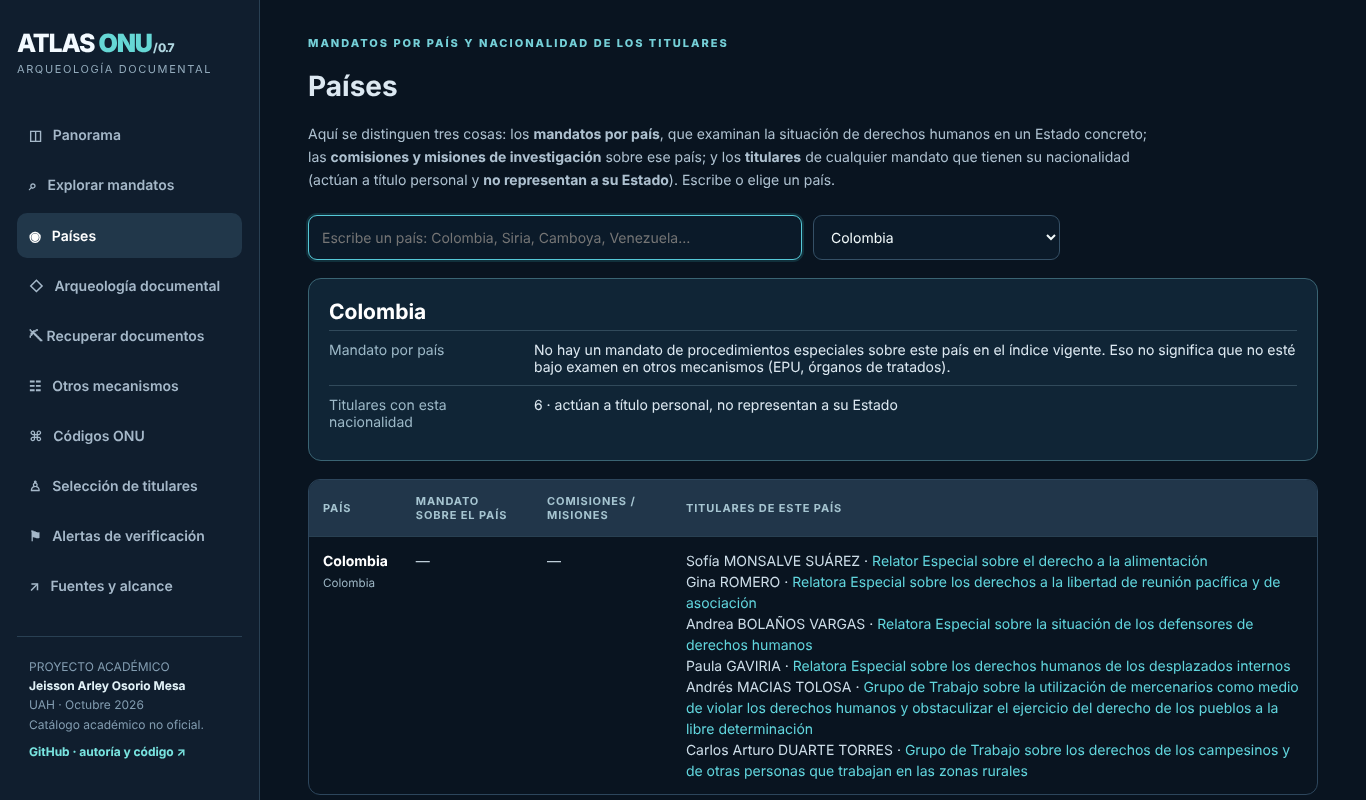
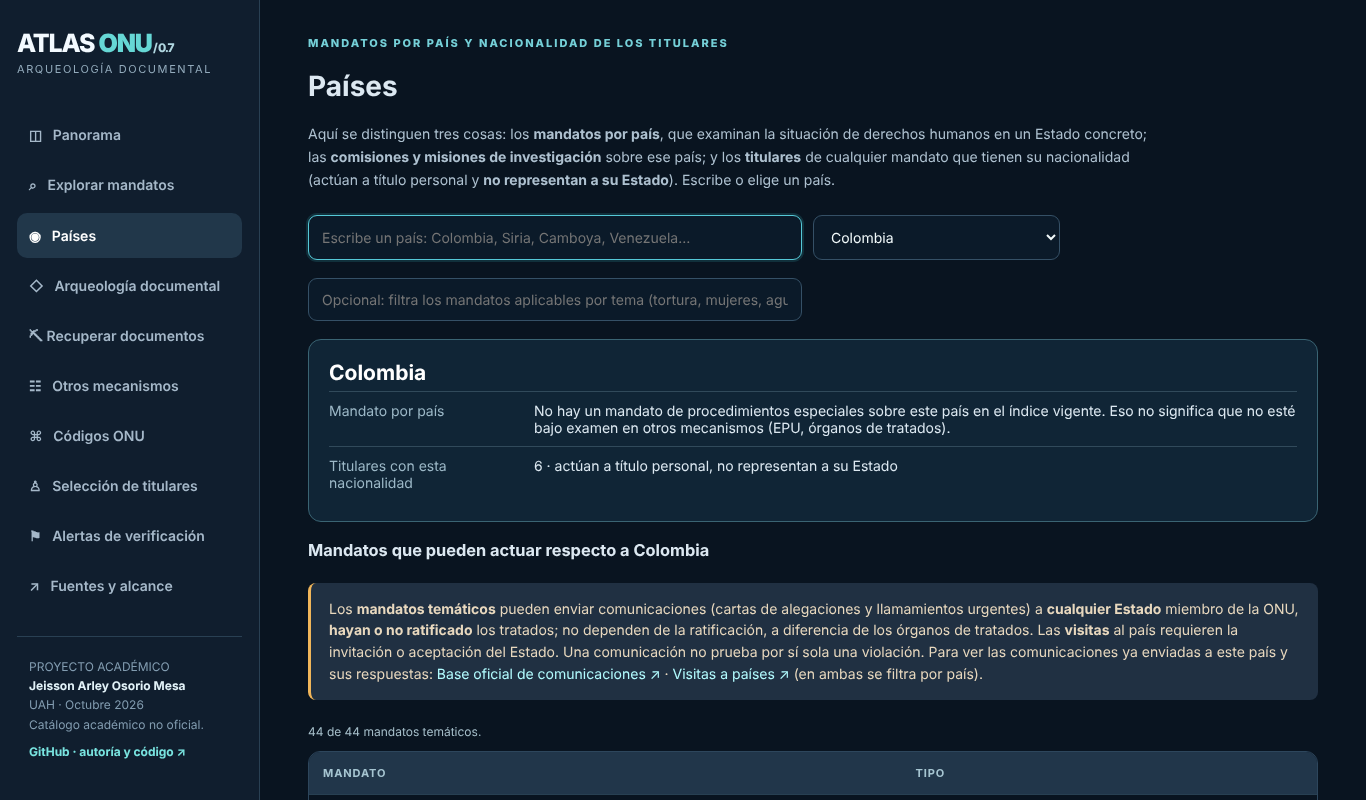
Países: al elegir un país se muestran los mandatos temáticos que pueden dirigirle comunicaciones
- Los 44 mandatos temáticos pueden comunicarse con cualquier Estado (no depende de la ratificación); filtro por tema y el mandato propio del país primero
- Enlaces a la base oficial de comunicaciones y de visitas
- Búsqueda guiada de la portada con país opcional
- Pruebas: 55 de lógica y 58 en Chromium

Changed region(s): [[0.2152, 0.5, 0.9839, 1.0], [0.2152, 0.375, 0.9531, 0.5312]]

diff --git a/index.html b/index.html
@@ -1,9 +1,9 @@
 <!DOCTYPE html><html lang="es"><head><meta charset="UTF-8"><meta name="viewport" content="width=device-width,initial-scale=1"><title>Atlas ONU · Arqueología documental</title>
 <style>
 :root{font-family:Inter,system-ui,-apple-system,'Segoe UI',sans-serif;color:#dce8f1;background:#091420;font-size:14px}*{box-sizing:border-box}body{margin:0}button,input,select{font:inherit}a{color:#61d5dd;text-decoration:none}a:hover{text-decoration:underline}button{cursor:pointer}.layout{display:grid;grid-template-columns:260px minmax(0,1fr);min-height:100vh}.side{background:#101e2e;border-right:1px solid #294053;padding:28px 17px;position:sticky;top:0;height:100vh;overflow:auto}.brand{font-size:25px;letter-spacing:-1.2px;font-weight:800;color:#f3faff}.brand b{color:#66d7d5}.subbrand{font-size:11px;color:#93abbc;letter-spacing:1.6px;margin:4px 0 36px}.nav button{border:0;background:transparent;color:#a5b8c9;display:flex;align-items:center;gap:12px;text-align:left;padding:14px 12px;border-radius:10px;width:100%;margin-bottom:5px;font-weight:600}.nav button.active,.nav button:hover{background:#21374a;color:white}.sidefooter{font-size:12px;line-height:1.6;color:#829cb0;padding:20px 12px;border-top:1px solid #294053;margin-top:28px}.main{min-width:0;padding:36px 48px 70px;max-width:1690px;width:100%;margin:auto}.eyebrow{text-transform:uppercase;letter-spacing:2px;font-size:11px;color:#75d0d8;font-weight:800}.heading{display:flex;justify-content:space-between;align-items:start;gap:20px}.heading h1{font-size:35px;margin:7px 0 10px;letter-spacing:-1.3px;color:white}.intro{max-width:850px;color:#aec1d0;line-height:1.65;margin:0 0 24px}.pill{display:inline-block;border:1px solid #365468;padding:7px 11px;color:#b7cbd8;border-radius:100px;font-size:11px}.notice{padding:15px 18px;background:#203042;border-left:3px solid #f1b65a;border-radius:8px;color:#e8d8be;line-height:1.55;margin:23px 0 24px}.cards{display:grid;grid-template-columns:repeat(4,minmax(0,1fr));gap:16px;margin:23px 0}.metric{background:#152639;border:1px solid #2b4154;border-radius:15px;padding:19px}.metric small{font-size:11px;text-transform:uppercase;letter-spacing:.8px;color:#8ca9ba}.metric strong{display:block;font-size:30px;color:white;margin-top:7px;letter-spacing:-1px}.metric .hint{font-size:11px;color:#86a6b8;margin-top:7px}.panels{display:grid;grid-template-columns:1.05fr .95fr;gap:18px;margin:19px 0}.panel{background:#132437;border:1px solid #294054;border-radius:15px;padding:23px;min-width:0}.panel h3{margin:0 0 18px;color:#eff8fd;font-size:16px}.controls{display:grid;grid-template-columns:2fr 1fr 1fr;gap:11px;margin:18px 0}.controls.advanced{grid-template-columns:1.1fr 1fr 1fr 1fr}.field{width:100%;background:#0b1a29;border:1px solid #355066;color:#f1f9fa;border-radius:9px;padding:12px 13px;outline:none;min-height:43px}.field:focus{border-color:#55c8d7;box-shadow:0 0 0 2px #287f8844}.searchlabel{font-size:12px;color:#9db9c8;margin-bottom:7px;display:block}.toolbar{display:flex;flex-wrap:wrap;gap:10px;margin:17px 0}.btn{background:#1d4252;border:1px solid #356875;border-radius:9px;color:#e7faff;padding:10px 15px;font-weight:650}.btn.primary{background:#52c8ca;color:#0a2630;border:0}.btn:hover{filter:brightness(1.15)}.count{color:#a6bfca;font-size:12px;margin-top:14px}.tablewrap{overflow:auto;border-radius:12px;border:1px solid #2d465c}table{width:100%;border-collapse:collapse;text-align:left;min-width:770px}th{font-size:11px;letter-spacing:.9px;color:#a6c5d1;background:#21364a;text-transform:uppercase;padding:14px}td{border-top:1px solid #284052;padding:13px 14px;vertical-align:top;color:#cddde8;line-height:1.5}tr:hover td{background:#1b3043}.name{color:white;font-weight:650}.tag{font-size:11px;padding:4px 8px;border-radius:6px;background:#2e4960;color:#e7f4f5;display:inline-block;white-space:nowrap}.tag.high{background:#5c3932;color:#ffc5ad}.tag.warn{background:#4e452b;color:#ffdda1}.linkline{display:flex;gap:10px;flex-wrap:wrap}.linkline a{display:inline-block;border:1px solid #356073;border-radius:7px;padding:6px 9px;font-size:11px}.empty{padding:28px;color:#abc0cc}.bars{display:flex;align-items:end;justify-content:space-evenly;height:190px;gap:14px;border-bottom:1px solid #436174}.barwrap{display:flex;flex:1;height:100%;align-items:end;justify-content:center;gap:5px;flex-direction:column;text-align:center}.bararea{display:flex;align-items:end;justify-content:center;height:150px;width:100%}.bar{background:linear-gradient(180deg,#65d7d0,#227f9c);width:40%;min-width:20px;border-radius:6px 6px 0 0}.barwrap label{font-size:11px;color:#b7c5d2;margin:7px 0}.barwrap strong{font-size:12px;color:#eaffff}.listline{border-bottom:1px solid #2b4054;padding:12px 0}.listline:last-child{border:0}.listline strong{color:#ecf7f8}.listline p{font-size:12px;color:#91adbc;margin:6px 0 0;line-height:1.5}.section{display:none}.section.visible{display:block}.detail{background:#102536;border:1px solid #3a6473;border-radius:13px;padding:20px;margin:18px 0}.detail h2{color:#fff;margin:0 0 6px}.detail .meta{color:#90b1c1;margin-bottom:17px}.kv{display:grid;grid-template-columns:190px 1fr;border-top:1px solid #314a5b;padding:10px 0;gap:15px}.kv span:first-child{color:#9cb8c7}.timeline{border-left:2px solid #387f8f;margin:18px 10px;padding-left:20px}.event{padding:2px 0 19px;position:relative}.event:before{content:"";width:10px;height:10px;border-radius:50%;background:#6bd6d3;position:absolute;left:-26px;top:6px}.event .year{color:#64ced5;font-weight:800}.event .desc{color:#b7c9d5;margin:5px 0;font-size:12px;line-height:1.5}.foot{border-top:1px solid #264054;margin-top:44px;padding-top:15px;color:#789aac;font-size:12px;line-height:1.6}@media(max-width:1080px){.layout{grid-template-columns:1fr}.side{position:static;height:auto}.nav{display:flex;flex-wrap:wrap}.nav button{width:auto}.main{padding:25px}.cards{grid-template-columns:repeat(2,1fr)}.panels{grid-template-columns:1fr}}@media(max-width:650px){.cards{grid-template-columns:1fr 1fr}.controls,.controls.advanced{grid-template-columns:1fr}.heading h1{font-size:26px}.main{padding:18px}.side{padding:15px}}@media print{.side,.toolbar,.controls{display:none}.layout{display:block}.section{display:block}.main{padding:0;color:black}.panel,.metric{break-inside:avoid}}
-.sidefooter a{display:inline-block;margin-top:8px;color:#79e4e0;font-weight:700}.notice a{color:#b2fcff}.field[type=number]{appearance:textfield}@media(max-width:650px){.pill{display:none}} .st-ok{background:#12372c;color:#7ff0c3}.st-ok2{background:#133a45;color:#8be3f0}.st-bad{background:#4a1d27;color:#ffb3c0}.st-neu{background:#26333d;color:#c8d6df}.st-warn{background:#4a3a14;color:#ffd98a}td small{color:#9db6c4}td code{word-break:break-all}</style></head><body><div class="layout"><aside class="side"><div class="brand">ATLAS <b>ONU</b><span style="color:#b0d6e0;font-size:12px"> / 0.7</span></div><div class="subbrand">ARQUEOLOGÍA DOCUMENTAL</div><div class="nav" id="nav"><button class="active" data-page="inicio">◫ &nbsp; Panorama</button><button data-page="explorar">⌕ &nbsp; Explorar mandatos</button><button data-page="paises">◉ &nbsp; Países</button><button data-page="arqueologia">◇ &nbsp; Arqueología documental</button><button type="button" data-page="recuperar">⛏ Recuperar documentos</button><button data-page="mecanismos">☷ &nbsp; Otros mecanismos</button><button data-page="codificacion">⌘ &nbsp; Códigos ONU</button><button data-page="seleccion">♙ &nbsp; Selección de titulares</button><button data-page="auditoria">⚑ &nbsp; Alertas de verificación</button><button data-page="fuentes">↗ &nbsp; Fuentes y alcance</button></div><div class="sidefooter">PROYECTO ACADÉMICO<br><strong style="color:#e2f2f8">Sukima-Labs</strong><br>UAH · Octubre 2026<br>Catálogo académico no oficial.<br><a href="https://github.com/sukima-labs/onu-arqueologia-documental" target="_blank" rel="noopener noreferrer">GitHub · autoría y código ↗</a></div></aside><main class="main"><section id="inicio" class="section visible"><div class="heading"><div><div class="eyebrow">Sistema universal de derechos humanos</div><h1>Explora el ecosistema ONU</h1></div><span class="pill">Versión 0.7 · datos del 27.10.2026</span></div><p class="intro">Un punto de entrada para encontrar mandatos, distinguir resoluciones de informes y reconstruir la historia documental de los procedimientos especiales. Busca en lenguaje natural; no necesitas conocer de antemano los símbolos de Naciones Unidas.</p><div class="notice"><b>Alcance:</b> los 57 mandatos vigentes de procedimientos especiales (índice OHCHR) con cada acto jurídico contrastado en la Biblioteca Digital ONU, más 25 mecanismos conexos (órganos de tratados, EPU, comisiones de investigación). <b>No incluye aún</b> mandatos extinguidos ni mapas. Los datos son una instantánea y se regeneran con <code>scripts/actualizar_datos.sh</code>; no se consultan en vivo.</div><div class="panel" id="guiada"><h3>Búsqueda guiada · si no conoces la ONU</h3><p>Elige la situación que te interesa y te llevamos a los mandatos que pueden ayudar.</p><div class="controls"><select id="guiadaSel" class="field" aria-label="Situación"><option value="">¿Qué situación te interesa?</option><option value="tortura|detencion|torture|detention">Tortura, malos tratos o detención arbitraria</option><option value="desaparici|ejecucion|execution|disappear">Desapariciones forzadas o ejecuciones</option><option value="mujer|violencia contra|women|ninos|child|discapacidad|disabilit">Mujeres, niñez o personas con discapacidad</option><option value="agua|alimentacion|vivienda|salud|educacion|pobreza|water|food|housing|health|education|poverty">Agua, alimentación, vivienda, salud, educación o pobreza</option><option value="indigena|minoria|afrodescend|migrant|racis|desplazad|indigenous|minorit|african descent">Pueblos indígenas, minorías, afrodescendientes o migrantes</option><option value="expresion|reunion|defensor|religion|privacidad|expression|assembly|defender|privacy">Libertad de expresión, reunión, religión, defensores</option><option value="medio ambiente|clima|environment|climate|desarrollo|development|deuda|debt">Medio ambiente, clima, desarrollo o deuda</option><option value="situacion de los derechos humanos en|situation of human rights in">Un país concreto (mandatos por país)</option></select><button class="btn primary" onclick="guiada()">Ver mandatos</button></div><p class="count">Si lo que buscas es un <b>documento</b> (por ejemplo una resolución antigua), ve a <a href="#" onclick="showPage('recuperar');return false">Recuperar documentos</a>. Si buscas el comité al que acudir por un tratado, ve a <a href="#" onclick="showPage('mecanismos');return false">Otros mecanismos</a>.</p></div><div class="cards" id="kpis"></div><div class="panel"><h3>Estado de actualización y calidad documental</h3><div id="calidad"></div></div><div class="panels"><div class="panel"><h3>Mandatos por modalidad</h3><div id="chartKinds" class="bars"></div></div><div class="panel"><h3>¿Cómo empiezo?</h3><div class="listline"><strong>01 · Escribe un tema</strong><p>Prueba «tortura», «desapariciones», «agua», «mercenarios» o un símbolo documental.</p></div><div class="listline"><strong>02 · Comprueba el acto</strong><p>Confirma si estás ante una resolución adoptada, un informe que reproduce un acto o un proyecto.</p></div><div class="listline"><strong>03 · Reconstruye el mandato</strong><p>Contrasta creación, renovaciones y métodos de trabajo con la Biblioteca Digital de Naciones Unidas.</p></div></div></div><div class="panel"><h3>Búsqueda inteligente</h3><div class="controls"><input id="quick" class="field" placeholder="Escribe como hablas: niños migrantes, desaparecidos, comida, A/HRC/RES/54/26…" aria-label="Búsqueda inteligente" autocomplete="off"><button class="btn primary" onclick="quickSearch()">Buscar</button><button class="btn" onclick="showPage('arqueologia')">Ver arqueología</button></div><p class="count">Entiende sinónimos en español e inglés («desaparecidos», «comida», «niños»), corrige erratas y busca a la vez en mandatos, resoluciones y mecanismos. Los resultados aparecen mientras escribes.</p><div id="smartOut" aria-live="polite"></div></div></section>
+.sidefooter a{display:inline-block;margin-top:8px;color:#79e4e0;font-weight:700}.notice a{color:#b2fcff}.field[type=number]{appearance:textfield}@media(max-width:650px){.pill{display:none}} .st-ok{background:#12372c;color:#7ff0c3}.st-ok2{background:#133a45;color:#8be3f0}.st-bad{background:#4a1d27;color:#ffb3c0}.st-neu{background:#26333d;color:#c8d6df}.st-warn{background:#4a3a14;color:#ffd98a}td small{color:#9db6c4}td code{word-break:break-all}</style></head><body><div class="layout"><aside class="side"><div class="brand">ATLAS <b>ONU</b><span style="color:#b0d6e0;font-size:12px"> / 0.7</span></div><div class="subbrand">ARQUEOLOGÍA DOCUMENTAL</div><div class="nav" id="nav"><button class="active" data-page="inicio">◫ &nbsp; Panorama</button><button data-page="explorar">⌕ &nbsp; Explorar mandatos</button><button data-page="paises">◉ &nbsp; Países</button><button data-page="arqueologia">◇ &nbsp; Arqueología documental</button><button type="button" data-page="recuperar">⛏ Recuperar documentos</button><button data-page="mecanismos">☷ &nbsp; Otros mecanismos</button><button data-page="codificacion">⌘ &nbsp; Códigos ONU</button><button data-page="seleccion">♙ &nbsp; Selección de titulares</button><button data-page="auditoria">⚑ &nbsp; Alertas de verificación</button><button data-page="fuentes">↗ &nbsp; Fuentes y alcance</button></div><div class="sidefooter">PROYECTO ACADÉMICO<br><strong style="color:#e2f2f8">Sukima-Labs</strong><br>UAH · Octubre 2026<br>Catálogo académico no oficial.<br><a href="https://github.com/sukima-labs/onu-arqueologia-documental" target="_blank" rel="noopener noreferrer">GitHub · autoría y código ↗</a></div></aside><main class="main"><section id="inicio" class="section visible"><div class="heading"><div><div class="eyebrow">Sistema universal de derechos humanos</div><h1>Explora el ecosistema ONU</h1></div><span class="pill">Versión 0.7 · datos del 27.10.2026</span></div><p class="intro">Un punto de entrada para encontrar mandatos, distinguir resoluciones de informes y reconstruir la historia documental de los procedimientos especiales. Busca en lenguaje natural; no necesitas conocer de antemano los símbolos de Naciones Unidas.</p><div class="notice"><b>Alcance:</b> los 57 mandatos vigentes de procedimientos especiales (índice OHCHR) con cada acto jurídico contrastado en la Biblioteca Digital ONU, más 25 mecanismos conexos (órganos de tratados, EPU, comisiones de investigación). <b>No incluye aún</b> mandatos extinguidos ni mapas. Los datos son una instantánea y se regeneran con <code>scripts/actualizar_datos.sh</code>; no se consultan en vivo.</div><div class="panel" id="guiada"><h3>Búsqueda guiada · si no conoces la ONU</h3><p>Elige la situación que te interesa y te llevamos a los mandatos que pueden ayudar.</p><div class="controls"><select id="guiadaSel" class="field" aria-label="Situación"><option value="">¿Qué situación te interesa?</option><option value="tortura|detencion|torture|detention">Tortura, malos tratos o detención arbitraria</option><option value="desaparici|ejecucion|execution|disappear">Desapariciones forzadas o ejecuciones</option><option value="mujer|violencia contra|women|ninos|child|discapacidad|disabilit">Mujeres, niñez o personas con discapacidad</option><option value="agua|alimentacion|vivienda|salud|educacion|pobreza|water|food|housing|health|education|poverty">Agua, alimentación, vivienda, salud, educación o pobreza</option><option value="indigena|minoria|afrodescend|migrant|racis|desplazad|indigenous|minorit|african descent">Pueblos indígenas, minorías, afrodescendientes o migrantes</option><option value="expresion|reunion|defensor|religion|privacidad|expression|assembly|defender|privacy">Libertad de expresión, reunión, religión, defensores</option><option value="medio ambiente|clima|environment|climate|desarrollo|development|deuda|debt">Medio ambiente, clima, desarrollo o deuda</option><option value="situacion de los derechos humanos en|situation of human rights in">Un país concreto (mandatos por país)</option></select><select id="guiadaPais" class="field" aria-label="País (opcional)"><option value="">País (opcional)</option></select><button class="btn primary" onclick="guiada()">Ver mandatos</button></div><p class="count">Si lo que buscas es un <b>documento</b> (por ejemplo una resolución antigua), ve a <a href="#" onclick="showPage('recuperar');return false">Recuperar documentos</a>. Si buscas el comité al que acudir por un tratado, ve a <a href="#" onclick="showPage('mecanismos');return false">Otros mecanismos</a>.</p></div><div class="cards" id="kpis"></div><div class="panel"><h3>Estado de actualización y calidad documental</h3><div id="calidad"></div></div><div class="panels"><div class="panel"><h3>Mandatos por modalidad</h3><div id="chartKinds" class="bars"></div></div><div class="panel"><h3>¿Cómo empiezo?</h3><div class="listline"><strong>01 · Escribe un tema</strong><p>Prueba «tortura», «desapariciones», «agua», «mercenarios» o un símbolo documental.</p></div><div class="listline"><strong>02 · Comprueba el acto</strong><p>Confirma si estás ante una resolución adoptada, un informe que reproduce un acto o un proyecto.</p></div><div class="listline"><strong>03 · Reconstruye el mandato</strong><p>Contrasta creación, renovaciones y métodos de trabajo con la Biblioteca Digital de Naciones Unidas.</p></div></div></div><div class="panel"><h3>Búsqueda inteligente</h3><div class="controls"><input id="quick" class="field" placeholder="Escribe como hablas: niños migrantes, desaparecidos, comida, A/HRC/RES/54/26…" aria-label="Búsqueda inteligente" autocomplete="off"><button class="btn primary" onclick="quickSearch()">Buscar</button><button class="btn" onclick="showPage('arqueologia')">Ver arqueología</button></div><p class="count">Entiende sinónimos en español e inglés («desaparecidos», «comida», «niños»), corrige erratas y busca a la vez en mandatos, resoluciones y mecanismos. Los resultados aparecen mientras escribes.</p><div id="smartOut" aria-live="polite"></div></div></section>
 <section id="explorar" class="section"><div class="eyebrow">Buscador académico · 57 mandatos vigentes del índice oficial OHCHR</div><h1>Explorador de mandatos</h1><p class="intro">Busca términos comunes, sinónimos, nombres en inglés o símbolos ONU. Usa los filtros para acotar el resultado; las fichas distinguen actos creador, renovaciones, métodos y advertencias de cotejo.</p><div class="panel" id="ruta-inicio"><h3>Cómo investigar sin conocer las siglas</h3><p>1. Busca un tema en lenguaje común. 2. Abre una ficha del mandato. 3. Comprueba el acto creador y su órgano. 4. Si llegas a un informe o enlace roto, entra a <a href="#" onclick="showPage('recuperar');return false">Recuperar documentos</a> y sigue la ruta hasta el texto primario. 5. Cita solo documentos cotejados.</p><div class="notice"><b>Instantánea, no feed en vivo:</b> los mandatos vigentes (44 temáticos y 13 por país) proceden del índice oficial de OHCHR consultado el 27-10-2026 y cada acto se contrasta con la Biblioteca Digital ONU. No incluye mandatos ya extinguidos ni órganos de tratados. <a href="https://www.ohchr.org/es/special-procedures-human-rights-council" target="_blank" rel="noopener noreferrer">Consultar índice oficial vigente ↗</a> · <a href="https://digitallibrary.un.org/" target="_blank" rel="noopener noreferrer">Biblioteca Digital ONU ↗</a>.</div></div><div class="controls advanced"><div><label class="searchlabel">Palabra o código</label><input id="q" class="field" placeholder="Ej. tortura o A/HRC/RES"></div><div><label class="searchlabel">Modalidad</label><select id="modal" class="field"><option value="">Todas</option><option>Temático</option><option>País</option></select></div><div><label class="searchlabel">Figura</label><select id="figura" class="field"><option value="">Todas</option><option>Relator</option><option>Experto</option><option>Grupo</option></select></div><div><label class="searchlabel">Origen institucional</label><select id="origin" class="field"><option value="">Todos</option><option>Comisión</option><option>Consejo</option><option>ECOSOC</option></select></div></div><div class="controls advanced"><div><label class="searchlabel" for="yearfrom">Desde el año</label><input id="yearfrom" type="number" class="field" min="1945" max="2100" placeholder="Ej. 1980"></div><div><label class="searchlabel" for="yearto">Hasta el año</label><input id="yearto" type="number" class="field" min="1945" max="2100" placeholder="Ej. 2006"></div><div><label class="searchlabel" for="order">Orden de resultados</label><select id="order" class="field"><option value="name">Tema A–Z</option><option value="oldest">Más antiguo primero</option><option value="newest">Más reciente primero</option></select></div><div><label class="searchlabel" for="pais">País (mandato o nacionalidad del titular)</label><select id="pais" class="field"><option value="">Todos</option></select></div><div><label class="searchlabel" for="verif">Verificación de actos</label><select id="verif" class="field"><option value="">Todas</option><option value="completa">Todos los actos localizados</option><option value="reservas">Con actos con reservas</option></select></div><div><label class="searchlabel">Alcance del catálogo</label><div class="notice" style="margin:0;padding:10px">Vigentes; históricos pendientes</div></div></div><div class="toolbar"><button class="btn primary" onclick="filterMandates()">Aplicar filtros</button><button class="btn" onclick="clearFilters()">Restablecer</button><button class="btn" onclick="exportCSV()">Exportar resultados CSV</button></div><p id="count" class="count"></p><div id="cardsResults"></div><div class="tablewrap"><table><thead><tr><th>Mandato</th><th>Creación</th><th>Acto de creación</th><th>Prórroga vigente</th><th>Actos localizados</th><th>Acciones</th></tr></thead><tbody id="mandBody"></tbody></table></div></section>
-<section id="paises" class="section"><div class="eyebrow">Mandatos por país y nacionalidad de los titulares</div><h1>Países</h1><p class="intro">Aquí se distinguen tres cosas: los <b>mandatos por país</b>, que examinan la situación de derechos humanos en un Estado concreto; las <b>comisiones y misiones de investigación</b> sobre ese país; y los <b>titulares</b> de cualquier mandato que tienen su nacionalidad (actúan a título personal y <b>no representan a su Estado</b>). Escribe o elige un país.</p><div class="controls"><input id="pQ" class="field" placeholder="Escribe un país: Colombia, Siria, Camboya, Venezuela…" aria-label="Buscar país" autocomplete="off"><select id="pSel" class="field" aria-label="País"><option value="">Todos los países</option></select></div><div id="pOut" aria-live="polite"></div><div class="tablewrap"><table><thead><tr><th>País</th><th>Mandato sobre el país</th><th>Comisiones / misiones</th><th>Titulares de este país</th></tr></thead><tbody id="pBody"></tbody></table></div></section><section id="arqueologia" class="section"><div class="eyebrow">Rastreabilidad de antecedentes</div><h1>Arqueología documental</h1><p class="intro">Separa el acto de creación de sus renovaciones, documentos de métodos e informes. La referencia no equivale a un texto primario hasta que se coteje. <a href="#" onclick="showPage('recuperar');return false">¿Enlace roto o resolución dentro de un informe? Recuperar ↗</a></p><div class="controls"><input id="qt" class="field" placeholder="Buscar por tema, símbolo o clase documental…" oninput="filterTraces()"><select id="tclass" class="field" onchange="filterTraces()"><option value="">Cualquier tipo</option><option>CREACIÓN</option><option>MÉTODOS</option><option>INFORME</option></select><button class="btn" onclick="resetTrace()">Limpiar filtros</button></div><div class="tablewrap"><table><thead><tr><th>Fecha / tema</th><th>Documento</th><th>Órgano</th><th>Qué significa</th><th>Fuente</th></tr></thead><tbody id="traceBody"></tbody></table></div></section>
+<section id="paises" class="section"><div class="eyebrow">Mandatos por país y nacionalidad de los titulares</div><h1>Países</h1><p class="intro">Aquí se distinguen tres cosas: los <b>mandatos por país</b>, que examinan la situación de derechos humanos en un Estado concreto; las <b>comisiones y misiones de investigación</b> sobre ese país; y los <b>titulares</b> de cualquier mandato que tienen su nacionalidad (actúan a título personal y <b>no representan a su Estado</b>). Escribe o elige un país.</p><div class="controls"><input id="pQ" class="field" placeholder="Escribe un país: Colombia, Siria, Camboya, Venezuela…" aria-label="Buscar país" autocomplete="off"><select id="pSel" class="field" aria-label="País"><option value="">Todos los países</option></select></div><div class="controls"><input id="pTema" class="field" placeholder="Opcional: filtra los mandatos aplicables por tema (tortura, mujeres, agua, expresión…)" aria-label="Tema"></div><div id="pOut" aria-live="polite"></div><div id="pTemas"></div><div class="tablewrap"><table><thead><tr><th>País</th><th>Mandato sobre el país</th><th>Comisiones / misiones</th><th>Titulares de este país</th></tr></thead><tbody id="pBody"></tbody></table></div></section><section id="arqueologia" class="section"><div class="eyebrow">Rastreabilidad de antecedentes</div><h1>Arqueología documental</h1><p class="intro">Separa el acto de creación de sus renovaciones, documentos de métodos e informes. La referencia no equivale a un texto primario hasta que se coteje. <a href="#" onclick="showPage('recuperar');return false">¿Enlace roto o resolución dentro de un informe? Recuperar ↗</a></p><div class="controls"><input id="qt" class="field" placeholder="Buscar por tema, símbolo o clase documental…" oninput="filterTraces()"><select id="tclass" class="field" onchange="filterTraces()"><option value="">Cualquier tipo</option><option>CREACIÓN</option><option>MÉTODOS</option><option>INFORME</option></select><button class="btn" onclick="resetTrace()">Limpiar filtros</button></div><div class="tablewrap"><table><thead><tr><th>Fecha / tema</th><th>Documento</th><th>Órgano</th><th>Qué significa</th><th>Fuente</th></tr></thead><tbody id="traceBody"></tbody></table></div></section>
 <section id="recuperar" class="section"><div class="eyebrow">Motor de recuperación documental · Biblioteca Digital de la ONU</div><h1>Excavación y recuperación de documentos</h1><p class="intro">Cuando el enlace a una resolución lleva a un informe, está roto o no existe como archivo individual, utiliza este rastreador. Distingue el acto jurídico, su reproducción en un informe, la signatura y el estado de comprobación.</p><div class="notice"><b>Importante:</b> El motor genera rutas de recuperación y muestra los expedientes comprobados. <b>No descarga automáticamente todos los PDF</b>: algunos repositorios restringen consultas automáticas y hay documentos históricos aún sin digitalizar. Nunca marca un hallazgo como verificado sin cotejo documental.</div><div class="panel"><h3>Introduce lo que conoces</h3><div class="controls"><div><label class="searchlabel" for="recoverQuery">Símbolo ONU, número de resolución o palabras</label><input id="recoverQuery" class="field" placeholder="Ej. E/CN.4/RES/20(XXXVI), 1980, desaparición…" oninput="recoverDocument()"></div><div><label class="searchlabel" for="recoverType">¿Qué necesitas encontrar?</label><select id="recoverType" class="field" onchange="recoverDocument()"><option value="">No lo sé</option><option value="resolucion">Resolución original</option><option value="informe">Informe donde figura el texto</option><option value="metodos">Métodos de trabajo</option></select></div></div><div class="toolbar"><button class="btn" onclick="recoverDocument()">Reconstruir ruta</button><button class="btn" onclick="document.getElementById('recoverQuery').value='E/CN.4/RES/20(XXXVI)';recoverDocument()">Probar caso real de 1980</button></div><div id="recoverResult" aria-live="polite"></div></div><h2>Ruta de excavación</h2><div class="timeline"><div class="event"><b>1. Identificar el órgano</b><p>Reconocer la serie (<code>E/CN.4</code> antigua Comisión, <code>A/HRC</code> Consejo de Derechos Humanos, <code>E/RES</code> ECOSOC, <code>A/RES</code> Asamblea General).</p></div><div class="event"><b>2. Diferenciar el tipo</b><p>Localizar la resolución adoptada; separar proyectos (<code>L.</code>), informes de sesión y documentos de métodos.</p></div><div class="event"><b>3. Buscar el soporte histórico</b><p>Si falta un PDF individual, localizar el informe de sesión que reproduce el texto y sus páginas; conservar ambas signaturas.</p></div><div class="event"><b>4. Cotejar el original y registrar evidencia</b><p>Confirmar órgano, fecha, signatura, página, texto y URL. Hasta entonces: «PENDIENTE DE COTEJO», no «RECUPERADO».</p></div></div></section><section id="mecanismos" class="section"><div class="eyebrow">Órganos de tratados y mecanismos conexos · distintos de los procedimientos especiales</div><h1>Otros mecanismos</h1><p class="intro">Los <b>órganos de tratados</b> los crean los tratados (o el ECOSOC) y vigilan a los Estados que los ratifican; los <b>procedimientos especiales</b> los crea el Consejo de Derechos Humanos y alcanzan a todos los Estados. No son lo mismo. El «acto» de cada fila es el documento de la ONU que lo crea o adopta el tratado; el tratado en sí se consulta en la Colección de Tratados.</p><div class="controls"><select id="mecCat" class="field" aria-label="Categoría"><option value="">Todas las categorías</option></select></div><div class="tablewrap"><table><thead><tr><th>Mecanismo</th><th>Acto de la ONU</th><th>Adopción / vigor / miembros</th><th>Verificación</th><th>Texto</th></tr></thead><tbody id="mecBody"></tbody></table></div></section><section id="codificacion" class="section"><div class="eyebrow">Aprender a leer un símbolo</div><h1>Descifrador de nomenclatura</h1><p class="intro">No todo documento `E/CN.4` es una resolución, ni todo documento `A/HRC` crea un mandato. El prefijo identifica series; el texto y el tipo documental determinan el alcance.</p><div class="tablewrap"><table><thead><tr><th>Patrón</th><th>Órgano</th><th>Tipo documental</th><th>Interpretación</th><th>Error que debes evitar</th></tr></thead><tbody id="codeBody"></tbody></table></div></section>
 <section id="seleccion" class="section"><div class="eyebrow">Gobernanza y designaciones</div><h1>Nombramiento de expertos</h1><p class="intro">Secuencia institucional de selección. Independencia funcional y nombramiento intergubernamental son cuestiones distintas. No confundir con nombramientos del Consejo de Seguridad.</p><div id="selectionList" class="timeline"></div></section>
 <section id="auditoria" class="section"><div class="eyebrow">Control de calidad jurídica</div><h1>Alertas de cotejo</h1><p class="intro">Señales para detectar atribuciones institucionales inconsistentes, símbolos parciales o vínculos que conducen a informes en vez de resoluciones. Una alerta <b>no prueba</b> por sí sola que el registro oficial esté equivocado.</p><div class="cards"><div class="metric"><small>Alertas del archivo</small><strong id="alertNumber">—</strong></div><div class="metric"><small>Regla de oro</small><strong style="font-size:22px">Fuente primaria</strong><div class="hint">No inferir autoría por ubicación web</div></div></div><div class="tablewrap"><table><thead><tr><th>Referencia</th><th>Problema señalado</th><th>Prioridad</th><th>Control propuesto</th><th>Fuente</th></tr></thead><tbody id="alertBody"></tbody></table></div></section>
@@ -45,7 +45,7 @@ const sym=cands.find(c=>/^[AES]\//.test(c));html+=`<div class="event"><b>Buscar 
 html+='<div class="notice">Reglas: una ruta sugerida no es un documento recuperado. Una resolución no es el informe que la contiene. Si no existe archivo individual, busca su texto en el informe del período de sesiones; si tampoco está, el estado es <b>NO DIGITALIZADO / PENDIENTE</b>; nunca se inventa un enlace.</div>';out.innerHTML=html}
 
 const MEC=DATA.mecanismos||[];
-function guiada(){const v=$('guiadaSel').value;if(!v)return;$('q').value=v;showPage('explorar');filterMandates()}
+function guiada(){const v=$('guiadaSel').value,pa=$('guiadaPais').value;if(pa){irPais(pa);const t=$('pTema');t.dataset.alt=v;t.value=v?v.split('|')[0]:'';renderTemas(PAISES.find(p=>p.id===pa));return}if(!v)return;$('q').value=v;showPage('explorar');filterMandates()}
 function renderMec(){const sel=$('mecCat');if(!sel.dataset.ready){sel.innerHTML+=[...new Set(MEC.map(m=>m.categoria))].map(c=>`<option>${esc(c)}</option>`).join('');sel.dataset.ready='1'}const c=sel.value;$('mecBody').innerHTML=MEC.filter(m=>!c||m.categoria===c).map(m=>`<tr><td><strong class="name">${esc(m.nombre)}</strong><br><small>${esc(m.nameEN)}</small><br><span class="tag">${esc(m.categoria)}</span> <b>${esc(m.siglas)}</b></td><td><code>${esc(m.simbolo||m.simbolo_semilla)}</code><br><small>${esc(m.acto)}</small>${m.titulo_oficial?'<br><small>'+esc(m.titulo_oficial)+'</small>':''}</td><td>${m.adopcion?esc(m.adopcion)+' / '+esc(m.entrada_vigor)+' · '+esc(m.miembros)+' miembros':(m.miembros?esc(m.miembros)+' miembros':'—')}</td><td>${badge(m.estado)}${m.adoptada?'<br><small>Adoptada: '+esc(m.adoptada)+'</small>':''}</td><td>${m.registro?link(m.registro,'Registro'):''} ${m.texto?textoFrom(m.texto):''}</td></tr>`).join('')}
 function calidad(){const acts=D.flatMap(x=>x.actos),loc=acts.filter(a=>/^VERIFICADO/.test(a.estado)).length,idx=Object.values(ACTOS).filter(x=>x.simbolo),dir=idx.filter(x=>x.texto&&x.texto.estado==='TEXTO_DIRECTO').length,inf=idx.filter(x=>x.texto&&x.texto.estado==='TEXTO_EN_INFORME').length;$('calidad').innerHTML=`<div class="kv"><span>Fecha de los datos</span><b>${esc(DATA.consultado)}</b></div><div class="kv"><span>Actos jurídicos localizados</span><div>${loc} de ${acts.length} (${Math.round(loc/acts.length*100)} %)</div></div><div class="kv"><span>Resoluciones con ruta al texto</span><div>${dir+inf} de ${idx.length}: ${dir} con PDF propio verificado · ${inf} reproducidas en un informe de sesión (con páginas)</div></div><div class="kv"><span>Mecanismos conexos verificados</span><div>${MEC.filter(m=>m.estado==='VERIFICADO').length} de ${MEC.length}</div></div><div class="kv"><span>Alertas abiertas</span><div>${A.filter(x=>x.nivel==='ALTA').length} de prioridad alta · ${A.length} en total</div></div>`}
 $('mecCat').addEventListener('change',renderMec);
@@ -79,11 +79,15 @@ if(!tot)h+='<div class="notice">No hay coincidencias. Prueba con una sola palabr
 $('quick').addEventListener('input',()=>{clearTimeout(smartTimer);smartTimer=setTimeout(smartRun,180)});
 const PAISES=DATA.paises||[];CONCEPTS.push(...PAISES.filter(p=>p.claves.length).map(p=>p.claves.map(norm)));
 function paisFicha(i,t){return `<a href="#" onclick="showPage('explorar');details(${i});return false">${esc(t||D[i].nombre)}</a>`}
-function renderPaises(){const q=norm($('pQ').value.trim()),sel=$('pSel');if(!sel.dataset.ready){const opts=PAISES.map(p=>`<option value="${esc(p.id)}">${esc(p.es)}</option>`).join('');sel.innerHTML+=opts;$('pais').innerHTML+=opts;sel.dataset.ready='1'}
+function renderPaises(){const q=norm($('pQ').value.trim()),sel=$('pSel');if(!sel.dataset.ready){const opts=PAISES.map(p=>`<option value="${esc(p.id)}">${esc(p.es)}</option>`).join('');sel.innerHTML+=opts;$('pais').innerHTML+=opts;$('guiadaPais').innerHTML+=opts;sel.dataset.ready='1'}
 const id=sel.value,rows=PAISES.filter(p=>(!id||p.id===id)&&(!q||norm(p.es+' '+p.en+' '+p.claves.join(' ')).includes(q)));
 $('pBody').innerHTML=rows.map(p=>`<tr><td><b class="name">${esc(p.es)}</b><br><small>${esc(p.en)}</small></td><td>${p.mandato!==null?paisFicha(p.mandato)+`<br><small>${esc(D[p.mandato].anio)} · ${D[p.mandato].actos_verificados} de ${D[p.mandato].actos_total} actos localizados</small>`:'—'}</td><td>${p.comisiones.length?p.comisiones.map(i=>`<div>${esc(MEC[i].nombre)} <small>(${esc(MEC[i].simbolo||MEC[i].simbolo_semilla)})</small></div>`).join(''):'—'}</td><td>${p.titulares_de.length?p.titulares_de.map(t=>`<div>${esc(t.titular)} · ${paisFicha(t.idx)}</div>`).join(''):'—'}</td></tr>`).join('')||'<tr><td colspan="4" class="empty">Ese país no figura: no tiene mandato por país ni comisión vigente en este catálogo y ningún titular actual es de ese país. Eso no significa que no esté bajo examen: consulta el EPU y los órganos de tratados.</td></tr>';
-const one=rows.length===1?rows[0]:null;$('pOut').innerHTML=one?`<div class="detail"><h2>${esc(one.es)}</h2><div class="kv"><span>Mandato por país</span><div>${one.mandato!==null?paisFicha(one.mandato)+' · titular actual: '+(D[one.mandato].titulares.map(h=>esc(h.nombre)).join(', ')||'sin titular consignado en la fuente'):'No hay un mandato de procedimientos especiales sobre este país en el índice vigente. Eso no significa que no esté bajo examen en otros mecanismos (EPU, órganos de tratados).'}</div></div><div class="kv"><span>Titulares con esta nacionalidad</span><div>${one.titulares_de.length} · actúan a título personal, no representan a su Estado</div></div></div>`:`<p class="count">${rows.length} de ${PAISES.length} países · hay ${PAISES.filter(p=>p.mandato!==null).length} con mandato específico y ${PAISES.filter(p=>p.comisiones.length).length} con comisión o misión de investigación.</p>`}
+const one=rows.length===1?rows[0]:null;$('pOut').innerHTML=one?`<div class="detail"><h2>${esc(one.es)}</h2><div class="kv"><span>Mandato por país</span><div>${one.mandato!==null?paisFicha(one.mandato)+' · titular actual: '+(D[one.mandato].titulares.map(h=>esc(h.nombre)).join(', ')||'sin titular consignado en la fuente'):'No hay un mandato de procedimientos especiales sobre este país en el índice vigente. Eso no significa que no esté bajo examen en otros mecanismos (EPU, órganos de tratados).'}</div></div><div class="kv"><span>Titulares con esta nacionalidad</span><div>${one.titulares_de.length} · actúan a título personal, no representan a su Estado</div></div></div>`:`<p class="count">${rows.length} de ${PAISES.length} países · hay ${PAISES.filter(p=>p.mandato!==null).length} con mandato específico y ${PAISES.filter(p=>p.comisiones.length).length} con comisión o misión de investigación.</p>`;renderTemas(one)}
 $('pQ').addEventListener('input',()=>{$('pSel').value='';renderPaises()});$('pSel').addEventListener('change',()=>{$('pQ').value='';renderPaises()});
+$('pTema').addEventListener('input',()=>{$('pTema').dataset.alt='';renderTemas(currentPais())});function currentPais(){const id=$('pSel').value;return id?PAISES.find(p=>p.id===id):(()=>{const q=norm($('pQ').value.trim());const r=q?PAISES.filter(p=>norm(p.es+' '+p.en+' '+p.claves.join(' ')).includes(q)):[];return r.length===1?r[0]:null})()}
+function renderTemas(one){const box=$('pTemas');if(!one){box.innerHTML='';return}const alt=$('pTema').dataset.alt||$('pTema').value.trim();const pm=one.mandato!==null?[one.mandato]:[];const th=D.map((r,i)=>i).filter(i=>D[i].alcance==='Temático'&&(!alt||smartMandateMatch(alt,D[i])));
+const row=(i,tag)=>`<tr><td>${esc(D[i].nombre)}<br><small>${esc(D[i].nameEN)}</small></td><td><span class="tag">${tag}</span></td><td><button class="btn" onclick="showPage('explorar');details(${i})">Ver ficha</button></td></tr>`;
+box.innerHTML=`<h3>Mandatos que pueden actuar respecto a ${esc(one.es)}</h3><div class="notice">Los <b>mandatos temáticos</b> pueden enviar comunicaciones (cartas de alegaciones y llamamientos urgentes) a <b>cualquier Estado</b> miembro de la ONU, <b>hayan o no ratificado</b> los tratados; no dependen de la ratificación, a diferencia de los órganos de tratados. Las <b>visitas</b> al país requieren la invitación o aceptación del Estado. Una comunicación no prueba por sí sola una violación. Para ver las comunicaciones ya enviadas a este país y sus respuestas: ${link('https://spcommreports.ohchr.org/Tmsearch/TMDocuments','Base oficial de comunicaciones')} · ${link('https://spinternet.ohchr.org/_Layouts/SpecialProceduresInternet/ViewCountryVisits.aspx?Lang=en','Visitas a países')}. Allí consulta las que correspondan a este país.</div><p class="count">${pm.length?'1 mandato específico del país + ':''}${th.length} de ${D.filter(x=>x.alcance==='Temático').length} mandatos temáticos${alt?' que coinciden con el tema':''}.</p><div class="tablewrap"><table><thead><tr><th>Mandato</th><th>Tipo</th><th></th></tr></thead><tbody>${pm.map(i=>row(i,'Mandato por país')).join('')}${th.map(i=>row(i,'Temático: puede comunicarse con cualquier Estado')).join('')||'<tr><td colspan="3" class="empty">Ningún mandato temático coincide con ese tema.</td></tr>'}</tbody></table></div>`}
 function irPais(id){showPage('paises');$('pQ').value='';$('pSel').value=id;renderPaises()}
 compute();renderMec();renderPaises();calidad();filterMandates();filterTraces();fillRest();recoverDocument();
 

diff --git a/README.md b/README.md
@@ -11,7 +11,7 @@ Plataforma académica independiente para investigar los procedimientos especiale
 - **Ruta al texto de las 400 resoluciones localizadas:** 374 con PDF propio (comprobado leyendo su primera página; muestreo del registro 30/30) y 26 antiguas reproducidas en un informe de sesión, con páginas (p. ej. `E/CN.4/RES/1985/33` → `E/1985/22`, pp. 71–72).
 - **25 mecanismos conexos** verificados: los 10 órganos de tratados (datos de la diapositiva del curso de la UAH), EPU, procedimientos 1235 y 1503, EMRIP, Foro de Minorías, ACNUDH y 8 comisiones de investigación / misiones.
 - **Búsqueda inteligente** en la portada: entiende sinónimos ES/EN («desaparecidos», «comida», «niños migrantes»), corrige erratas («tortrua») y muestra, mientras escribes, mandatos, resoluciones y mecanismos relacionados con acceso directo a la ficha o al texto.
-- **Países:** sección con buscador y listado de 62 países (mandato específico, comisiones/misiones y titulares con esa nacionalidad), filtro por país en el explorador y tarjeta de país en la búsqueda inteligente.
+- **Países:** sección con buscador y listado de 62 países (mandato específico, comisiones/misiones y titulares con esa nacionalidad). Al elegir un país muestra además los 44 mandatos temáticos que pueden dirigirle comunicaciones, filtrables por tema; también se puede indicar el país en la búsqueda guiada. Filtro por país en el explorador y tarjeta de país en la búsqueda inteligente.
 - **Búsqueda guiada** para quien no conoce la ONU, filtro de verificación, Excel descargable (`data/atlas-onu-catalogo-v07.xlsx`).
 - **Arqueología documental real:** una resolución se localiza aunque el símbolo esté mal escrito (`A/HRC/54/26`, `E/CN.4/1991/42`, `20 (XXXVI)`), un borrador `L.` se traduce a la resolución adoptada y la ficha enlaza el registro y los PDF en español e inglés.
 - **Distingue resolución, informe y borrador.** Si un símbolo existe pero es un informe, lo dice. Si una equivalencia es inferida, lo dice.

diff --git a/audit/AUDITORIA.md b/audit/AUDITORIA.md
@@ -15,7 +15,7 @@ Estados: ✅ cumple · 🟡 parcial · ❌ no implementado.
 | 9 | Selección de titulares | 🟡 | Secuencia del proceso; titulares actuales por mandato; sin datos históricos por proceso |
 | 10 | Autoría | ✅ | © y enlace visibles; licencia pendiente del autor |
 | 11 | Excel offline, HTML Pages | 🟡 | HTML sin conexión y Excel v0.7 (6 hojas); flujo `pages.yml` listo; pendiente activar Pages (un clic) |
-| 12 | Pruebas reales | 🟡 | 51 de lógica + 52 en Chromium; auditoría de enlaces (571; 0 rotos; 459 no concluyentes por antirrobot); muestreo de PDF 30/30. Sin auditoría de accesibilidad |
+| 12 | Pruebas reales | 🟡 | 55 de lógica + 58 en Chromium; auditoría de enlaces (571; 0 rotos; 459 no concluyentes por antirrobot); muestreo de PDF 30/30. Sin auditoría de accesibilidad |
 | 13 | Commits y Pages verificado | ✅ | Publicado en https://sukima-labs.github.io/onu-arqueologia-documental/ (27-oct-2026): HTTP 200 en página, datos y Excel; las 42 comprobaciones de Chromium pasan contra la URL pública, sin errores de consola |
 
 ## Qué corrigió esta versión respecto a v0.6
